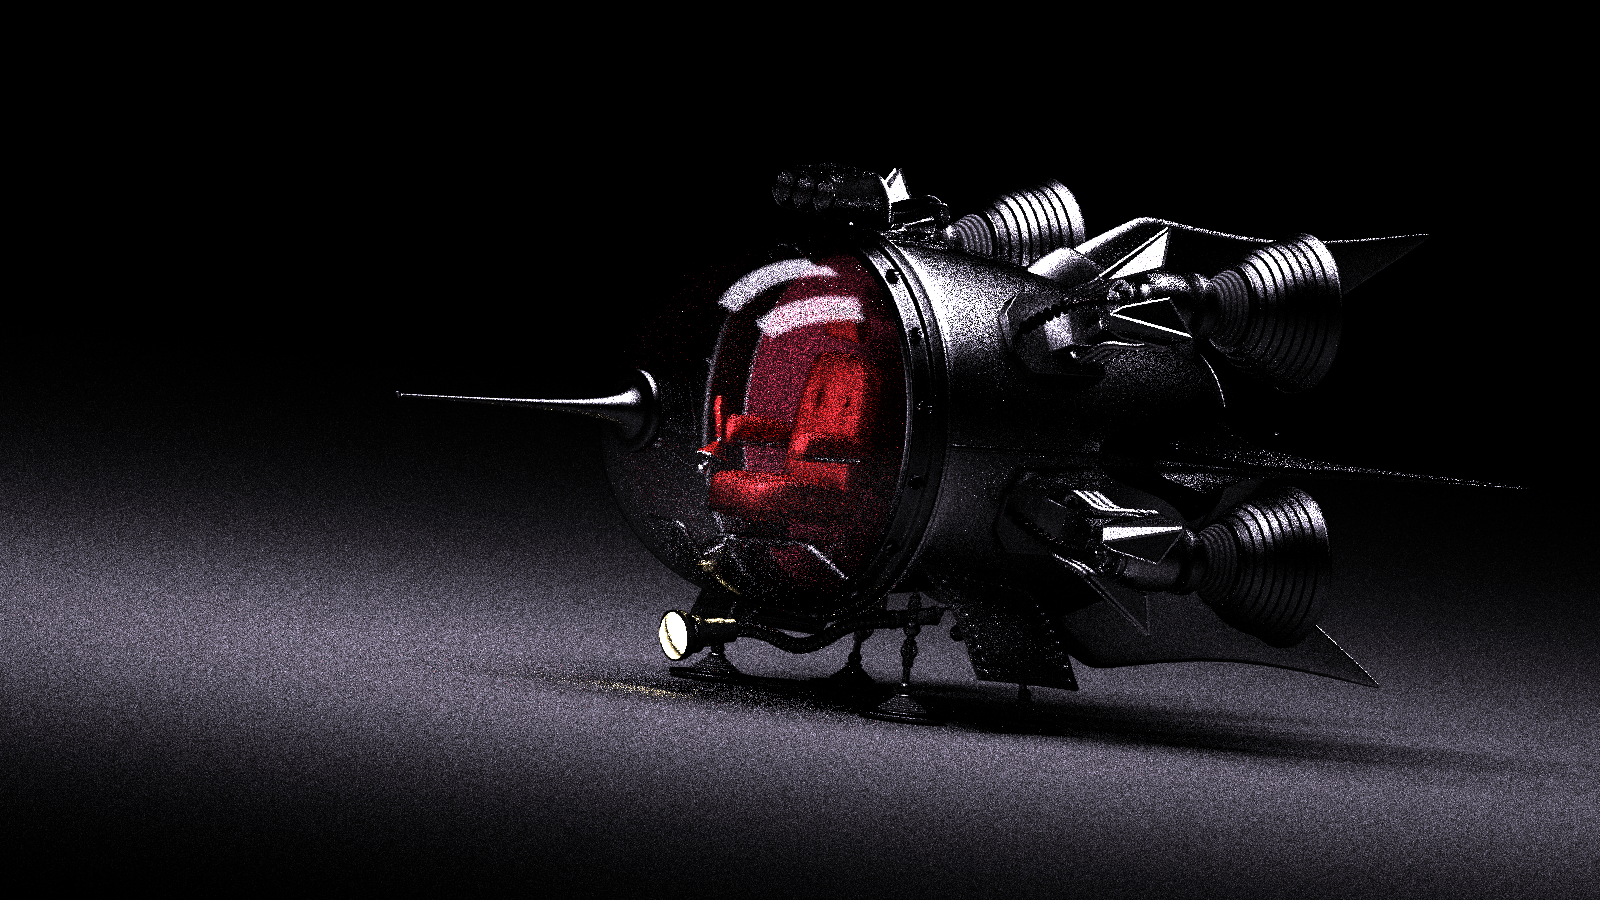
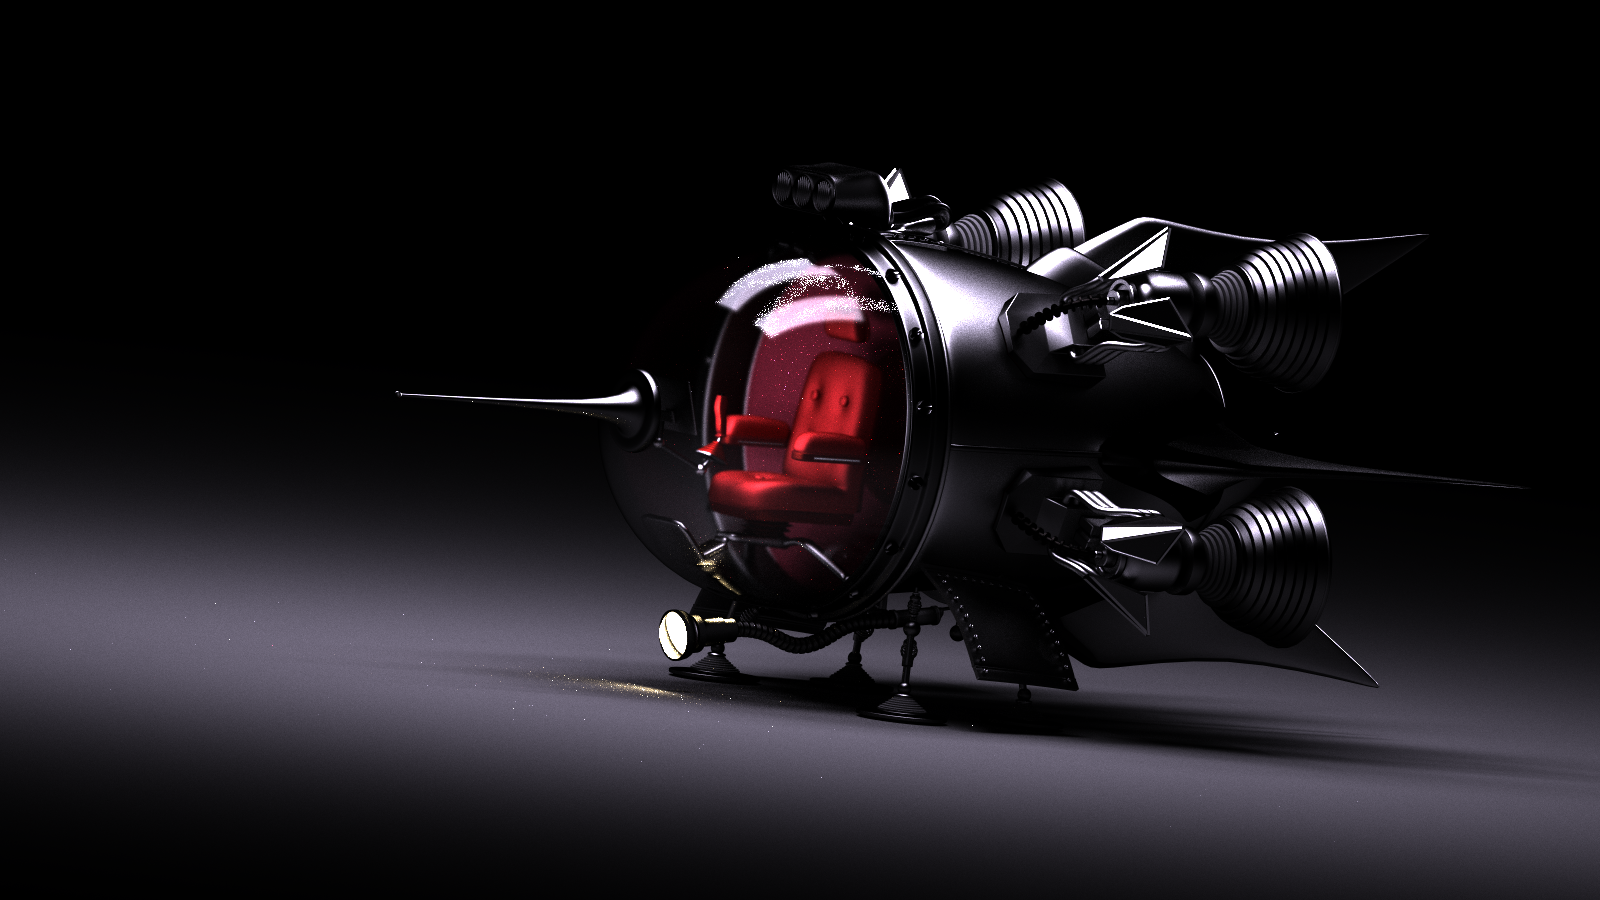
readme

Changed region(s): [[0.0, 0.1867, 1.0, 0.9956], [0.6562, 0.4978, 0.8438, 0.6533], [0.375, 0.4356, 0.4062, 0.4667]]

diff --git a/README.md b/README.md
@@ -52,7 +52,7 @@
 
 ![](doc/lambert_512.png)
 
-*area light demo, 32spp*
+*area light demo, 4096spp*
 
 ![](doc/area.png)
 
